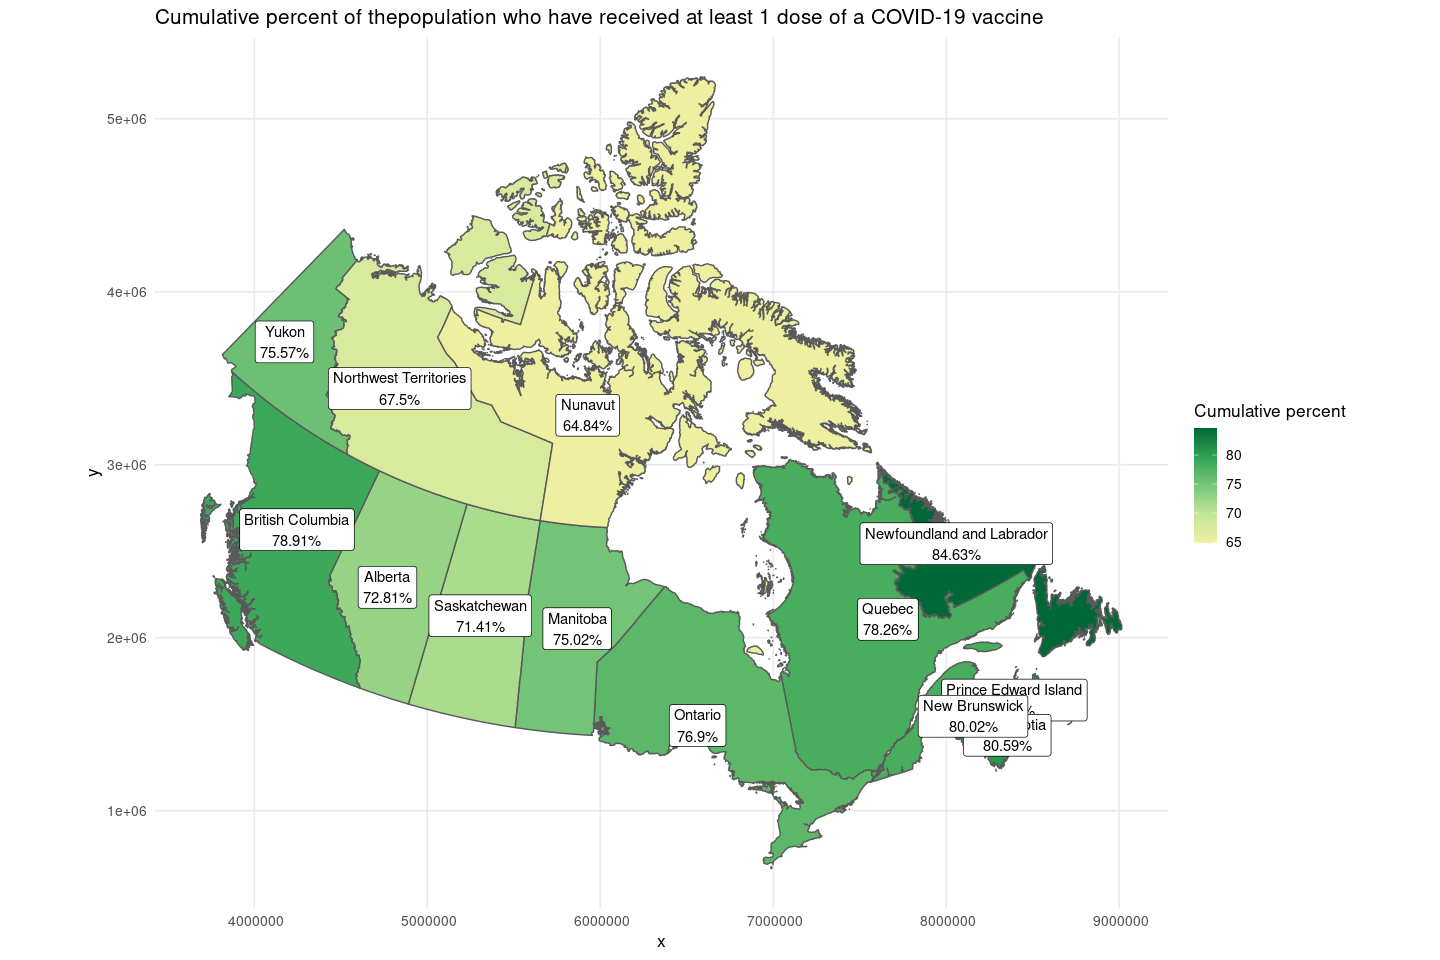
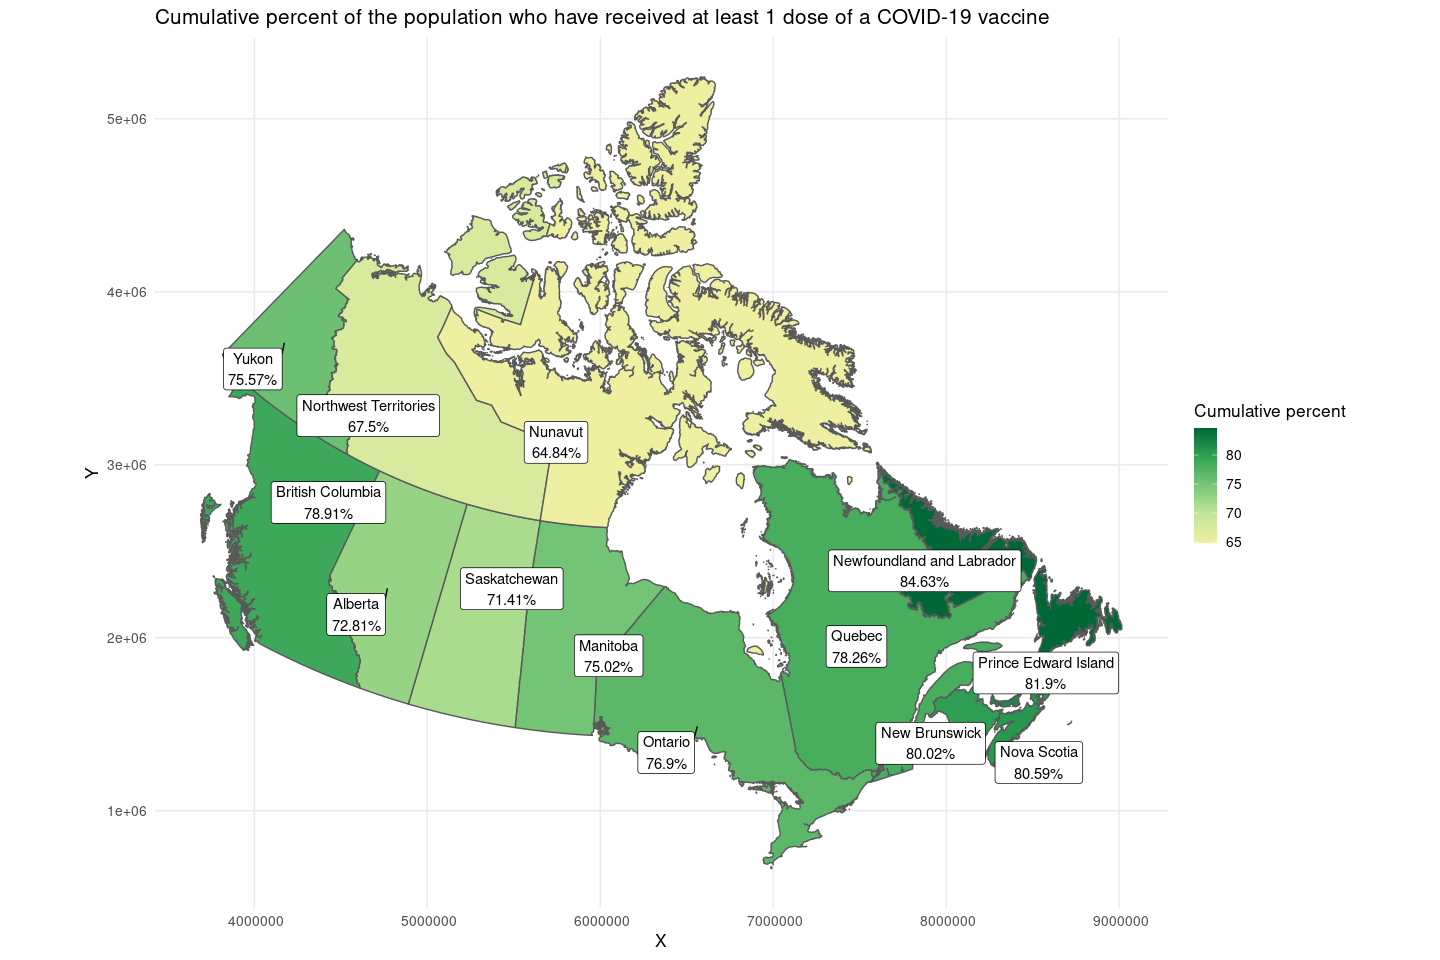
reduced examples

diff --git a/README.md b/README.md
@@ -25,36 +25,24 @@ ggplot(data = census_divisions) +
 <img src="man/figures/README-unnamed-chunk-2-1.png" width="100%" />
 
 ``` r
-ggplot(data = get_agricultural_divisions()) + 
-  geom_sf(aes(geometry = geometry)) +
-  labs(title = "Canada's Census Agricultural Regions")
+# same idea as the same plot, different aggregation
+#
+# ggplot(data = get_agricultural_divisions()) + 
+#   geom_sf(aes(geometry = geometry)) +
+#   labs(title = "Canada's Census Agricultural Regions")
+# 
+# ggplot(data = get_economic_regions()) + 
+#   geom_sf(aes(geometry = geometry)) +
+#   labs(title = "Canada's Economic Regions")
+# 
+# ggplot(data = federal_electoral_districts) + 
+#   geom_sf(aes(geometry = geometry)) +
+#   labs(title = "Canada's Federal Electoral Districts")
+# 
+# ggplot(data = get_provinces()) + 
+#   geom_sf(aes(geometry = geometry)) +
+#   labs(title = "Canada's Provinces")
 ```
-
-<img src="man/figures/README-unnamed-chunk-2-2.png" width="100%" />
-
-``` r
-ggplot(data = get_economic_regions()) + 
-  geom_sf(aes(geometry = geometry)) +
-  labs(title = "Canada's Economic Regions")
-```
-
-<img src="man/figures/README-unnamed-chunk-2-3.png" width="100%" />
-
-``` r
-ggplot(data = federal_electoral_districts) + 
-  geom_sf(aes(geometry = geometry)) +
-  labs(title = "Canada's Federal Electoral Districts")
-```
-
-<img src="man/figures/README-unnamed-chunk-2-4.png" width="100%" />
-
-``` r
-ggplot(data = get_provinces()) + 
-  geom_sf(aes(geometry = geometry)) +
-  labs(title = "Canada's Provinces")
-```
-
-<img src="man/figures/README-unnamed-chunk-2-5.png" width="100%" />
 
 ## Using real data
 
@@ -84,12 +72,16 @@ vaccination <- vaccination %>%
                   paste0(proptotal_atleast1dose, "%"), sep = "\n"),
   )
 
+# devtools::install_github("yutannihilation/ggsflabel")
+
 vaccination %>% 
   ggplot() +
   geom_sf(aes(fill = proptotal_atleast1dose, geometry = geometry)) +
-  geom_sf_label(aes(label = label, geometry = geometry)) +
+  # geom_sf_label(aes(label = label, geometry = geometry)) +
+  # improve label positioning with
+  ggsflabel::geom_sf_label_repel(aes(label = label, geometry = geometry)) +
   scale_fill_gradientn(colours = colours, name = "Cumulative percent") +
-  labs(title = "Cumulative percent of thepopulation who have received at least 1 dose of a COVID-19 vaccine") +
+  labs(title = "Cumulative percent of the population who have received at least 1 dose of a COVID-19 vaccine") +
   theme_minimal(base_size = 13)
 ```
 
